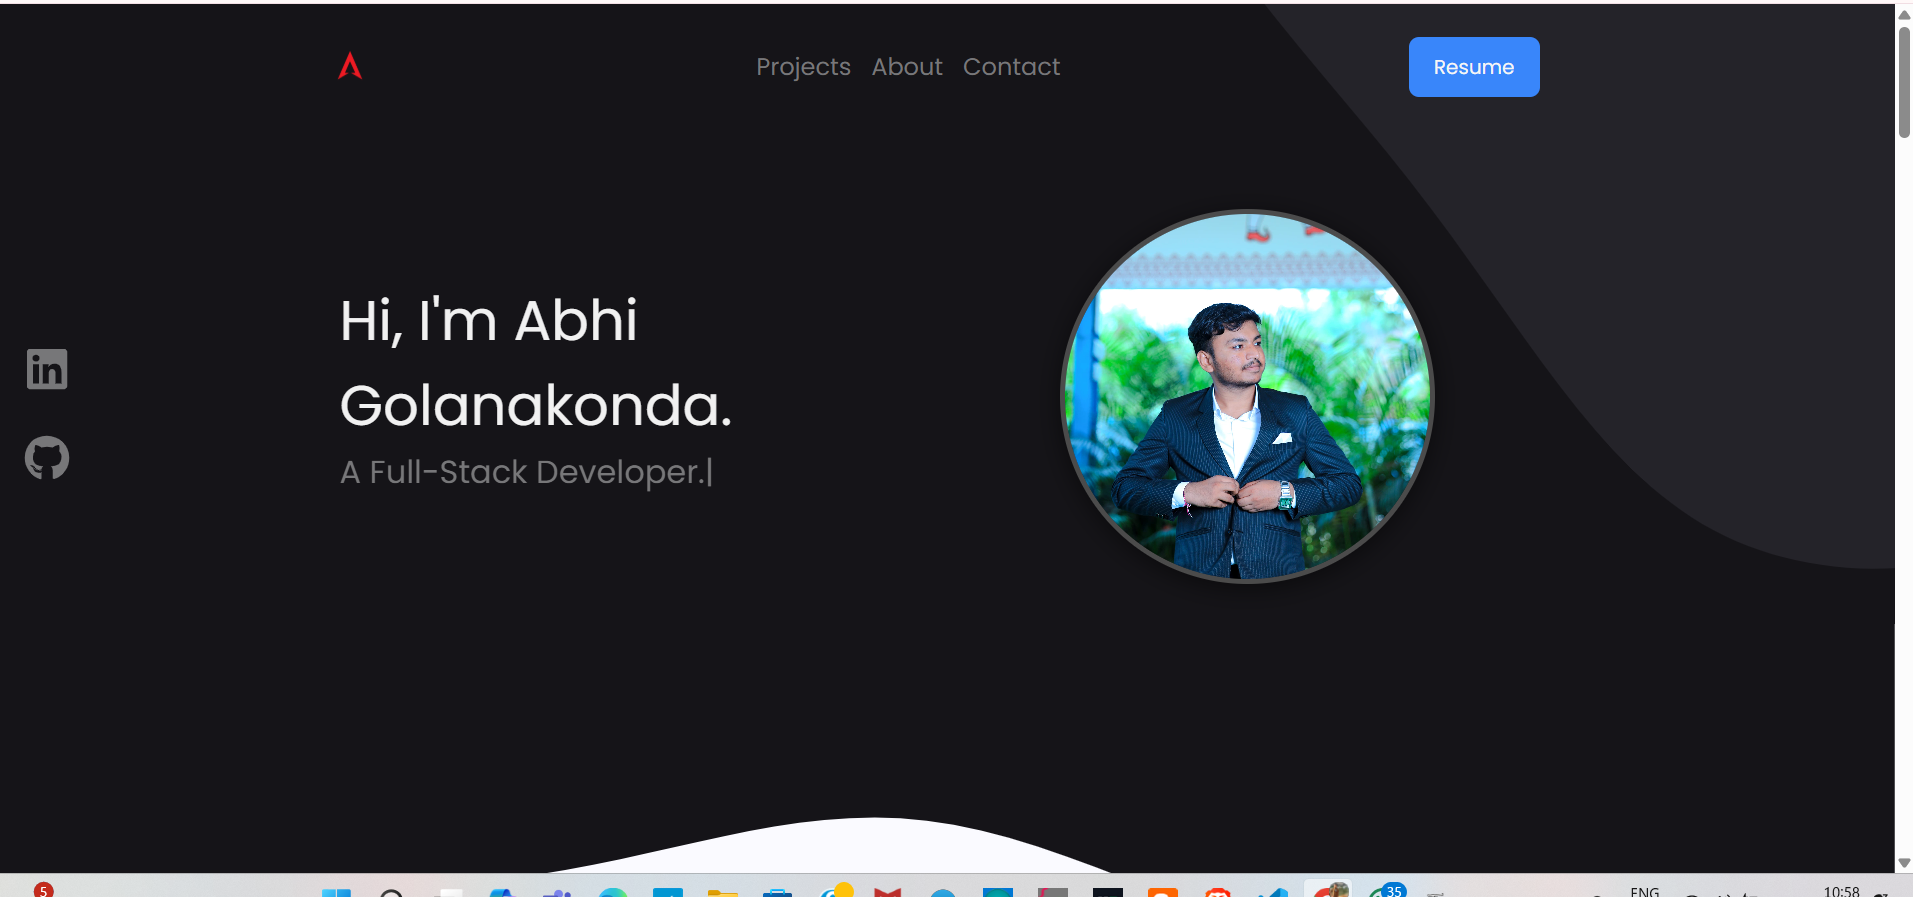
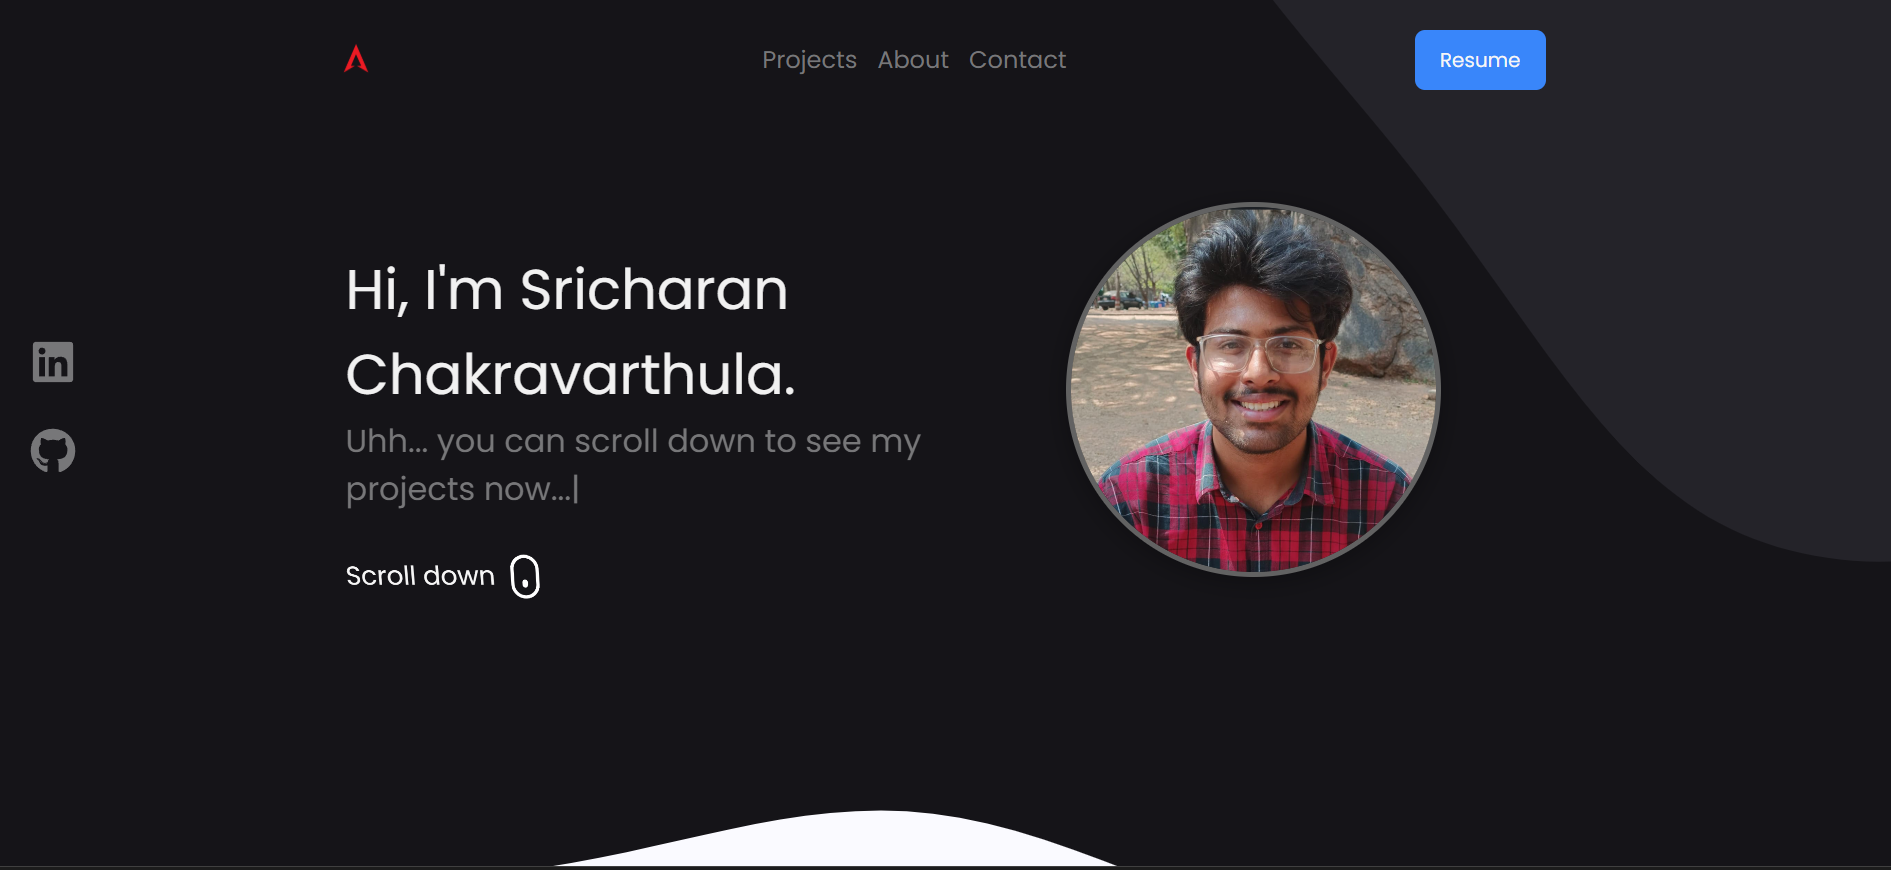
Updated

diff --git a/public/index.html b/public/index.html
@@ -7,7 +7,7 @@
     <meta name="theme-color" content="#000000" />
     <meta
       name="description"
-      content="my personal react portfolio  ~ Abhi Golanakonda"
+      content="my personal react portfolio  ~ Sricharan Chakravarthula"
     />
     <meta name="google-site-verification" content="YuEFQ9Cj0x_t_SJDbMkyDsm8tUlIvo9EDKR3FDWL13s" />
     <link rel="stylesheet" href="https://cdnjs.cloudflare.com/ajax/libs/animate.css/3.5.2/animate.min.css">
@@ -28,7 +28,7 @@
       work correctly both with client-side routing and a non-root public URL.
       Learn how to configure a non-root public URL by running `npm run build`.
     -->
-    <title>Abhi Golanakonda</title>
+    <title>Sricharan Chakravarthula</title>
   </head>
   <body>
     <noscript>You need to enable JavaScript to run this app.</noscript>
